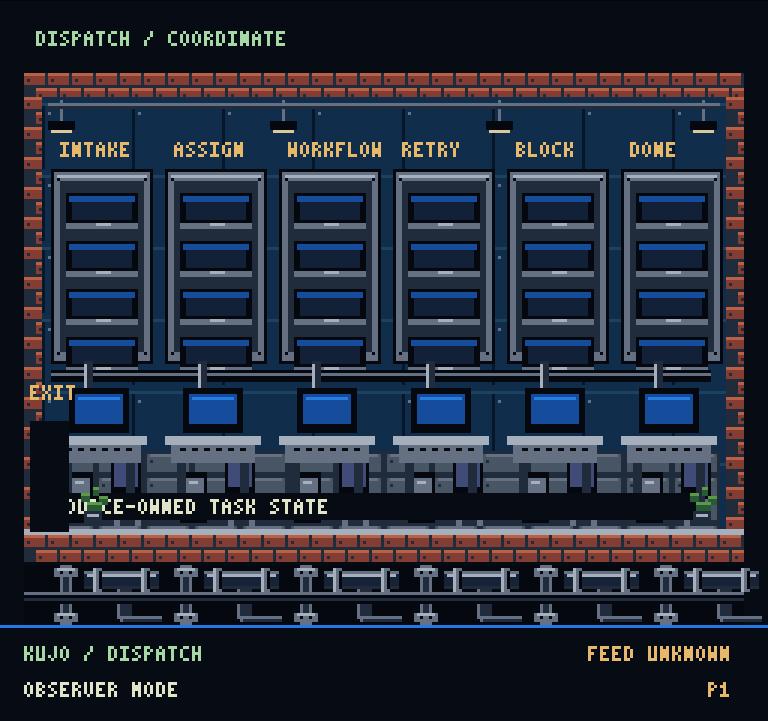
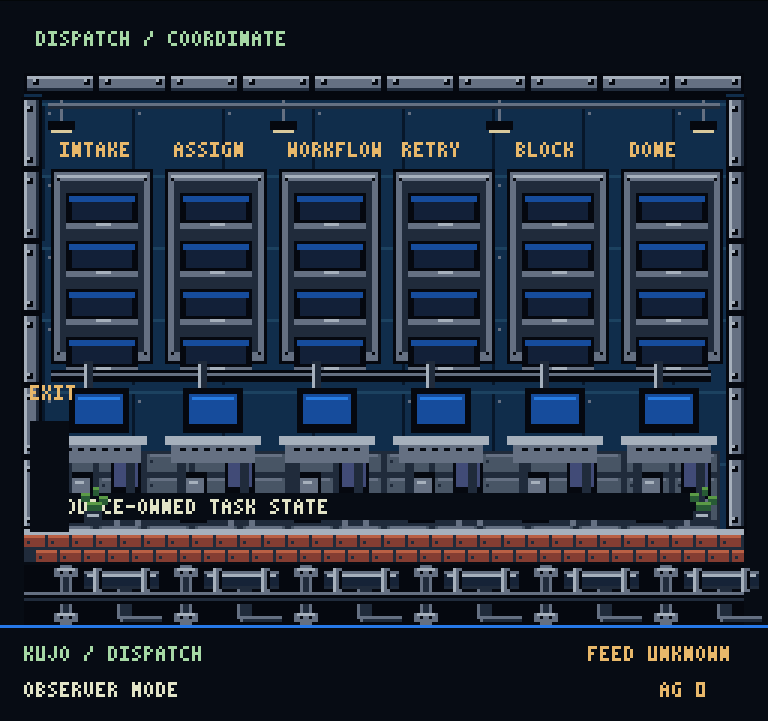
Capture whole-page visual assessment and remaining acceptance gaps

Changed region(s): [[0.0312, 0.0915, 0.9688, 0.7323], [0.8438, 0.9459, 0.9688, 0.9764]]

diff --git a/scripts/game-view-proof.ts b/scripts/game-view-proof.ts
@@ -67,13 +67,11 @@ try {
     () => document.fullscreenElement === document.querySelector(".world"),
   );
   await page.waitForTimeout(250);
-  const dimensions = await page
-    .locator("#canvas canvas")
-    .evaluate((e) => ({
-      width: e.clientWidth,
-      height: e.clientHeight,
-      top: e.getBoundingClientRect().top,
-    }));
+  const dimensions = await page.locator("#canvas canvas").evaluate((e) => ({
+    width: e.clientWidth,
+    height: e.clientHeight,
+    top: e.getBoundingClientRect().top,
+  }));
   assert.equal(dimensions.width % 256, 0);
   assert.equal(dimensions.height % 240, 0);
   assert(dimensions.width >= 768);
@@ -97,6 +95,8 @@ try {
   await page.keyboard.press("Enter");
   await page.waitForFunction(() => !document.fullscreenElement);
   assert(await button.evaluate((e) => e === document.activeElement));
+  await page.locator("[data-scene=city]").click();
+  await page.screenshot({ path: `${out}/whole-page.png`, fullPage: true });
   assert.equal(
     await page.evaluate(() => JSON.stringify((window as any).agentCity.truth)),
     before,

diff --git a/evidence/game-view/REFERENCE-ACCEPTANCE.md b/evidence/game-view/REFERENCE-ACCEPTANCE.md
@@ -1,0 +1,38 @@
+# Reference acceptance — current local build
+
+The supplied five-image pack is indexed, with hashes, in
+[visual-reference-manifest.json](../../research/visual-reference-manifest.json).
+Its original images are not distributable game assets. Current source uses original
+pixel instructions and canine characters; it does not extract protected sprites.
+
+This is a partial visual assessment, not final user approval or release readiness.
+The new captures are an empty observer fixture: AG0 and UNKNOWN are intentional.
+No synthetic workers are presented as product proof.
+
+| Reference direction | Current evidence | Assessment |
+| --- | --- | --- |
+| Photo1: compact waterfront neighborhood, rooftops, paths and building signs | [City](city.png): six distinct facades, canals, authored thresholds, street markings, framed area title | Implemented at256×208; grid layout and roof/detail density remain simpler than the reference |
+| Photo2: black/blue command-center framing, roster and selected-agent surfaces | [Whole page](whole-page.png): left roster, dominant central canvas, right truth inspector and blue framing | Default unconfigured layout captured; long task form below the world still needs a more compact presentation and a real selected-agent comparison |
+| Photo3: industrial side-view architecture, utility framing, multiple levels | [Workshop](workshop.png), [Library](library.png): riveted steel borders, brick floors, authored upper stations/ladders | Implemented; original compact geometry, not a traced room |
+| Photo4: framed briefing wall and shared meeting table | [Meeting](meeting.png): steel beams, lockers, pendant lights and printed plan | Passive scene fixtures implemented; no invented participants, dialogue or meetings |
+| Photo5: dense knowledge shelves, desks, lamps and upper gallery | [Library](library.png): separate source stations, book bays, globe and reading tables | Implemented with fewer texture details than the higher-resolution concept |
+| NES-era presentation | Native256×240 including32px HUD, nearest-neighbor integer scaling, limited palette, original small glyphs and sprites | Browser proof passes native/integer layout and keyboard fullscreen; GPU pixel identity is not claimed |
+| Truthful HUD | Actual known execution count replaces decorative P1; source freshness remains separate | AG count includes known execution instances, not an invented active-worker or player count |
+
+`npx tsx scripts/game-view-proof.ts` captures all seven scenes and verifies
+unchanged truth, no write actions, keyboard fullscreen entry/exit, integer scale,
+320px layout and usable DOM fallback when renderer initialization is rejected.
+`npm run verify` passes110tests, boundaries, types, map validation and production
+build. No map/portal/station route, semantic scheduling or runtime business behavior
+changed. This run is not evidence of new live agent traversal or final tool video.
+
+Still required for final visual acceptance: compact task/onboarding presentation,
+whole-page comparison with real selected executions and actual communication, motion review across the
+real task sequence, and resolution of the remaining density/fidelity differences.
+The broader release checklist remains open.
+
+Runtime/source revision c2aad743a997662473c6be54c2b033b1a18eaab7 passes all5jobs
+in CI37737469181, including110tests and all4installed platforms. The follow-up
+whole-page capture changes only the evidence harness, not application behavior.
+The actual empty-state screenshot confirms the central world remains dominant,
+but the long task form below it is a remaining command-center usability gap.

diff --git a/RELEASE-CHECKLIST.md b/RELEASE-CHECKLIST.md
@@ -589,3 +589,18 @@ CI37736218850 atf5c75f4 passes all5jobs,110tests and all4installed platforms,
 including the updated approved-source/read-denial/permission proofs. This is a
 qualified explicit MCP read feature; broader Ability/workflow and final release
 acceptance remain open. All owned local proof services stopped; no long soak.
+
+Reference framing checkpointc2aad74: original steel architectural plates now frame
+all six interiors; Meeting Hall has a passive printed plan and city plots/side
+streets have additional authored detail. HUD displays the actual known execution
+count instead of a fictional P1 slot. Local verify110tests passes. Seven-scene
+Chromium capture passes unchanged truth, no writes, integer scale, keyboard
+fullscreen,320px layout and renderer rejection fallback. Current reference
+comparison in evidence/game-view/REFERENCE-ACCEPTANCE.md explicitly retains the
+simpler city/detail density and incomplete whole-page/live-motion acceptance.
+No final visual approval, new live activity or final video is claimed.
+
+Framing CI37737469181 atc2aad74 passes all5jobs and four installed platforms.
+Current whole-page empty-state capture confirms the world/roster/inspector layout
+but exposes the long task form below the game. A compact task/onboarding surface
+and real selected-execution/motion comparison remain required for visual acceptance.
